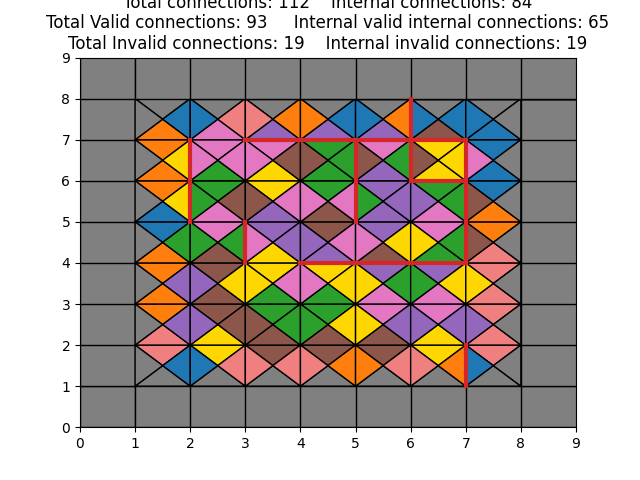
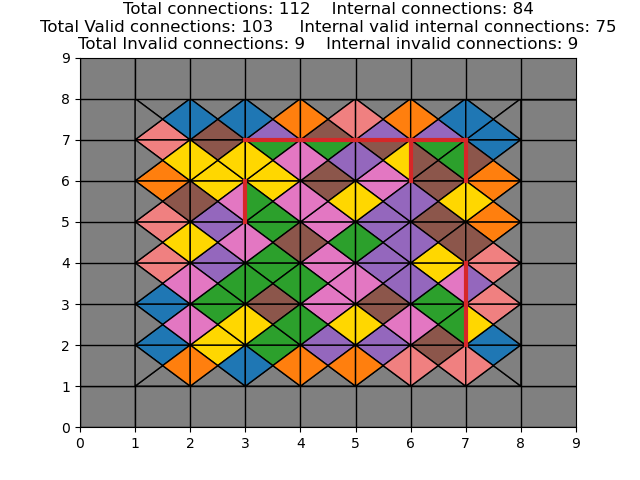
Update local search
voisinage voisinage

diff --git a/solver_local_search.py b/solver_local_search.py
@@ -21,9 +21,15 @@ dict_board_size_instance = {
     9 : 'D',
     10 : 'E',
     16 : 'complet'
-
-
 }
+def log_execution(instance, score, execution_time):
+    # Format log message
+    log_message = f"Instance: {instance}, Score: {score}, Execution Time: {execution_time:.4f} seconds\n"
+    
+    # Write log message to file
+    with open(path.join("log", "log_local_search.txt"), "a") as log_file:
+        log_file.write(log_message)
+
 
 class Tabu:
     def __init__(self, size: int):
@@ -40,69 +46,128 @@ class Tabu:
     def __contains__(self, element):
         return element in self.tabuList
 
-def log_execution(instance, score, execution_time):
 
-
-    # Format log message
-    log_message = f"Instance: {instance}, Score: {score}, Execution Time: {execution_time:.4f} seconds\n"
-    
-    # Write log message to file
-    with open(path.join("os", "log_local_search.txt"), "a") as log_file:
-        log_file.write(log_message)
-
-def deux_swap_un_seul_valide(pieces,puzzle):
+def deux_swap_un_seul_valide(pieces, puzzle):
     """
-    Génère une liste de voisins de la solution artpieces en échangeant pour chaque voisin 2 tableaux distincts.
+    Génère une liste de voisins de la solution ...
 
     Args:
-        artpieces (List): Liste d'items de dictionnaire (index, ArtPiece), solution actuelle.
+        pieces
+        puzzle
     
     Returns:
-        deux_swap_neigh (List[List]) : Liste de voisins de artpieces.
+        deux_swap_neigh (List[List])
     """
 
     valid = False
-    bord = False
+    corner_or_edge = False
     n = len(pieces)
 
-
-    index_piece_1 = np.random.randint(0,n)
-    piece1 = pieces[index_piece_1]
-
     while not valid:
-        index_piece_2 = np.random.randint(0,n)
-        piece2 = pieces[index_piece_2]
+        # On tire deux pièces au hasard
+        index_piece_1, index_piece_2 = np.random.choice(n, size=2, replace=False)
+        piece1, piece2 = pieces[index_piece_1], pieces[index_piece_2]
+
+        # On garde cette sélection si les deux pièces sont de la même géométrie (bords, coins)
         if np.count_nonzero(piece1) == np.count_nonzero(piece2):
             valid = True
             if np.count_nonzero(piece1) != 4:
-                bord = True
+                corner_or_edge = True
 
     neigh = deepcopy(pieces)
-    if bord :
-        neigh[index_piece_1], neigh[index_piece_2] = pieces[index_piece_2], pieces[index_piece_1]
-    else :
-        neigh[index_piece_1], neigh[index_piece_2] = pieces[index_piece_2], puzzle.generate_rotation(pieces[index_piece_1])[np.random.randint(0,4)]
+
+    if corner_or_edge:
+        # On échange les deux bords/coins en échangeant leurs rotations
+        corn_edge_piece_1 = np.where(np.array(pieces[index_piece_1]) == 0)[0]
+        corn_edge_piece_2 = np.where(np.array(pieces[index_piece_2]) == 0)[0]
+
+        #print(pieces[index_piece_1], corn_edge_piece_1)
+        #print(pieces[index_piece_2], corn_edge_piece_2)
+
+        if np.allclose(corn_edge_piece_1, corn_edge_piece_2):
+            # Même orientation (bords du même côté du plateau)
+            neigh[index_piece_1], neigh[index_piece_2] = pieces[index_piece_2], pieces[index_piece_1]
+
+        else:
+            if len(corn_edge_piece_1) == 1:
+                # Les deux pièces sont des bords
+                if corn_edge_piece_1[0] + corn_edge_piece_2[0] == 1 or corn_edge_piece_1[0] + corn_edge_piece_2[0] == 5:
+                    # Les indices sont 0 et 1, ou 2 et 3 (bords opposés)
+                    neigh[index_piece_1], neigh[index_piece_2] = puzzle.generate_rotation(pieces[index_piece_2])[2], puzzle.generate_rotation(pieces[index_piece_1])[2]
+
+                elif corn_edge_piece_1[0] + corn_edge_piece_2[0] == 2:
+                    # Bords haut et gauche
+                    if corn_edge_piece_1[0] == 0:
+                        # Pièce 1 est un bord haut : on doit la tourner de 270°
+                        neigh[index_piece_1], neigh[index_piece_2] = puzzle.generate_rotation(pieces[index_piece_2])[1], puzzle.generate_rotation(pieces[index_piece_1])[3]
+                    else:
+                        # Pièce 1 est un bord gauche : on doit la tourner de 90°
+                        neigh[index_piece_1], neigh[index_piece_2] = puzzle.generate_rotation(pieces[index_piece_2])[3], puzzle.generate_rotation(pieces[index_piece_1])[1]
+
+                elif corn_edge_piece_1[0] + corn_edge_piece_2[0] == 4:
+                    # Bords bas et droite
+                    if corn_edge_piece_1[0] == 3:
+                        # Pièce 1 est un bord droit : on doit la tourner de 90°
+                        neigh[index_piece_1], neigh[index_piece_2] = puzzle.generate_rotation(pieces[index_piece_2])[3], puzzle.generate_rotation(pieces[index_piece_1])[1]
+                    else:
+                        # Pièce 1 est un bord bas : on doit la tourner de 270°
+                        neigh[index_piece_1], neigh[index_piece_2] = puzzle.generate_rotation(pieces[index_piece_2])[1], puzzle.generate_rotation(pieces[index_piece_1])[3]
+                
+                elif abs(corn_edge_piece_1[0] + corn_edge_piece_2[0] == 4) == 3:
+                    # Bords haut et droite
+                    if corn_edge_piece_1[0] == 0:
+                        # Pièce 1 est un bord haut : on doit la tourner de 90°
+                        neigh[index_piece_1], neigh[index_piece_2] = puzzle.generate_rotation(pieces[index_piece_2])[3], puzzle.generate_rotation(pieces[index_piece_1])[1]
+                    else:
+                        # Pièce 1 est un bord droit : on doit la tourner de 270°
+                        neigh[index_piece_1], neigh[index_piece_2] = puzzle.generate_rotation(pieces[index_piece_2])[1], puzzle.generate_rotation(pieces[index_piece_1])[3]
+                
+                else:
+                    # Bords bas et gauche
+                    if corn_edge_piece_1[0] == 1:
+                        # Pièce 1 est un bord bas : on doit la touner de 90°
+                        neigh[index_piece_1], neigh[index_piece_2] = puzzle.generate_rotation(pieces[index_piece_2])[3], puzzle.generate_rotation(pieces[index_piece_1])[1]
+                    else:
+                        # Pièce 1 est un bord droit : on doit la tourner de 270°
+                        neigh[index_piece_1], neigh[index_piece_2] = puzzle.generate_rotation(pieces[index_piece_2])[1], puzzle.generate_rotation(pieces[index_piece_1])[3]
+            
+            else:
+                # Les deux pièces sont des coins
+                if np.sum(corn_edge_piece_1 == corn_edge_piece_2) == 0:
+                    # Les deux pièces sont dans les coins opposés ; rotation de 180°
+                    neigh[index_piece_1], neigh[index_piece_2] = puzzle.generate_rotation(pieces[index_piece_2])[2], puzzle.generate_rotation(pieces[index_piece_1])[2]
+
+                elif corn_edge_piece_1[0] == corn_edge_piece_2[0]:
+                    # np.where est séquentiel : les indices sont triés. 
+                    # Premiers éléments égaux <=> les premiers éléments sont 0 (coins haut-G et haut-D) ou 1 (coins bas-G et bas-D)
+                    if np.sum(corn_edge_piece_1) == 3:
+                        # On doit tourner la pièce 1 de 270°
+                        neigh[index_piece_1], neigh[index_piece_2] = puzzle.generate_rotation(pieces[index_piece_2])[1], puzzle.generate_rotation(pieces[index_piece_1])[3]
+                    else:
+                        # On doit tourner la pièce 2 de 270°
+                        neigh[index_piece_1], neigh[index_piece_2] = puzzle.generate_rotation(pieces[index_piece_2])[3], puzzle.generate_rotation(pieces[index_piece_1])[1]
+                
+                else:
+                    # Premiers éléments diff <=> les deuxièmes éléments sont 2 (coins haut-G et bas-G) ou 3 (coins haut-D et bas-D)
+                    if np.sum(corn_edge_piece_1) == 3:
+                        # On doit tourner la pièce 1 de 90°
+                        neigh[index_piece_1], neigh[index_piece_2] = puzzle.generate_rotation(pieces[index_piece_2])[3], puzzle.generate_rotation(pieces[index_piece_1])[1]
+                    else:
+                        # On doit tourner la pièce 2 de 90°
+                        neigh[index_piece_1], neigh[index_piece_2] = puzzle.generate_rotation(pieces[index_piece_2])[1], puzzle.generate_rotation(pieces[index_piece_1])[3]
+
+        #print(neigh[index_piece_1], neigh[index_piece_2])
+        #print()
+    else:
+        # Les deux pièces sont des pièces internes : on les échange en faisant éventuellement une rotation de l'une dans 25% des cas
+        if np.random.rand() < 0.25:
+            neigh[index_piece_1], neigh[index_piece_2] = pieces[index_piece_2], puzzle.generate_rotation(pieces[index_piece_1])[np.random.randint(0,4)]
+        else:
+            neigh[index_piece_1], neigh[index_piece_2] = pieces[index_piece_2], neigh[index_piece_1]
 
 
     return neigh
-    
 
-    # n = len(pieces)
-    # deux_swap_neigh = []
-    # for i in range(n):
-    #     for j in range(i+1,n):
-    #         neigh = deepcopy(pieces)
-    #         neigh[i], neigh[j] = pieces[j], pieces[i]
-    #         deux_swap_neigh.append(neigh)
-
-    # arr = np.tile(pieces, (comb(len(pieces), 2), 1))
-    # indices = np.array(list(combinations(range(len(pieces)), 2)))
-    # print(indices,np.flip(indices, axis=-1))
-    # arr[np.arange(arr.shape[0])[:, None], indices] = arr[np.arange(arr.shape[0])[:, None], np.flip(indices, axis=-1)]
-
-    
-
-    return deux_swap_neigh
 
 def solve_local_search(eternity_puzzle):
     """
@@ -111,21 +176,18 @@ def solve_local_search(eternity_puzzle):
     :return: a tuple (solution, cost) where solution is a list of the pieces (rotations applied) and
         cost is the cost of the solution
     """
-
     puzzle = copy.deepcopy(eternity_puzzle)
     best_solution, best_n_conflict = solve_heuristic(puzzle)
     
-
     # Métriques de temps d'exécution
     t0 = time()
     iteration_duration = 0
 
-    time_credit = 120
-
+    time_credit = 3600
 
     # Recherche
     while ((time()-t0) + iteration_duration) < time_credit - 5:
-
+        # Temps de début du restart
         t1 = time()
 
         puzzle = copy.deepcopy(eternity_puzzle)
@@ -134,15 +196,11 @@ def solve_local_search(eternity_puzzle):
 
         current_solution, current_n_conflict = solve_heuristic(puzzle)
         best_solution_restart, best_n_conflict_restart = current_solution, current_n_conflict
-        temp = 3
+        temp = 10
 
-        listeTabu = Tabu(300)
+        listeTabu = Tabu(20)
 
-        for _ in range(20000):
-
-            
-            
-
+        for i in range(20000):
             # On choisit un voisin au hasard, et on le garde s'il est améliorant ou selon une probabilité dépendant de son coût et de la température.
             solution = deux_swap_un_seul_valide(current_solution, puzzle)   
 
@@ -150,45 +208,25 @@ def solve_local_search(eternity_puzzle):
                 listeTabu.add(solution)
                 n_conflict = puzzle.get_total_n_conflict(solution)
 
-                #print(n_conflict)  
-
-                #print(n_conflict)
                 delta = n_conflict - current_n_conflict
 
-                if delta <= 0 :#or np.random.rand() < np.exp(-delta/temp):
+                if delta <= 0 or np.random.rand() < np.exp(-delta/temp):
                     current_solution, current_n_conflict = solution, n_conflict
 
                     # On choisit comme représentation courante le meilleur voisin
-                    current_solution = solution
-                
-                    
 
-                if current_n_conflict <= best_n_conflict_restart:
+                if current_n_conflict < best_n_conflict_restart:
                     best_solution_restart, best_n_conflict_restart = current_solution, current_n_conflict
                 
-                temp *= 0.98
+                temp *= 0.99
 
         if best_n_conflict_restart < best_n_conflict:
             best_n_conflict  = best_n_conflict_restart
             best_solution = best_solution_restart
+            print(best_n_conflict)
         
         iteration_duration = time() - t1
 
-
-    log_execution(dict_board_size_instance[eternity_puzzle.board_size],best_n_conflict,time()-t0)
-    return  best_solution, best_n_conflict
-
-    for _ in range(n_iter):
-
-        puzzle = copy.deepcopy(eternity_puzzle)
-        random.shuffle(puzzle.piece_list) 
-
-        solution, n_conflict = solve_heuristic(puzzle)
-
-
-
-        if n_conflict < best_n_conflict:
-            best_solution = solution
-            best_n_conflict = n_conflict
+    log_execution(dict_board_size_instance[eternity_puzzle.board_size], best_n_conflict, time()-t0)
 
     return  best_solution, best_n_conflict

diff --git a/solver_heuristic.py b/solver_heuristic.py
@@ -14,11 +14,6 @@ OUEST = 2
 EST = 3
 
 
-
-
-
-
-
 def solve_heuristic(eternity_puzzle):
     """
     Heuristic solution of the problem
@@ -26,11 +21,8 @@ def solve_heuristic(eternity_puzzle):
     :return: a tuple (solution, cost) where solution is a list of the pieces (rotations applied) and
         cost is the cost of the solution
     """
-    # TODO implement here your solution
     solution = [(23,23,23,23)] * eternity_puzzle.board_size**2
     remaining_piece = copy.deepcopy(eternity_puzzle.piece_list)
-
-    
 
     # shuffle the pieces
     # take the orientation that works the best

diff --git a/solver_advanced.py b/solver_advanced.py
@@ -48,7 +48,7 @@ def log_execution(instance, score, execution_time):
     log_message = f"Instance: {instance}, Score: {score}, Execution Time: {execution_time:.4f} seconds\n"
     
     # Write log message to file
-    with open(path.join("os", "log_advanced.txt"), "a") as log_file:
+    with open(path.join("log", "log_advanced.txt"), "a") as log_file:
         log_file.write(log_message)
 
 def deux_swap(pieces, puzzle, board_size):
